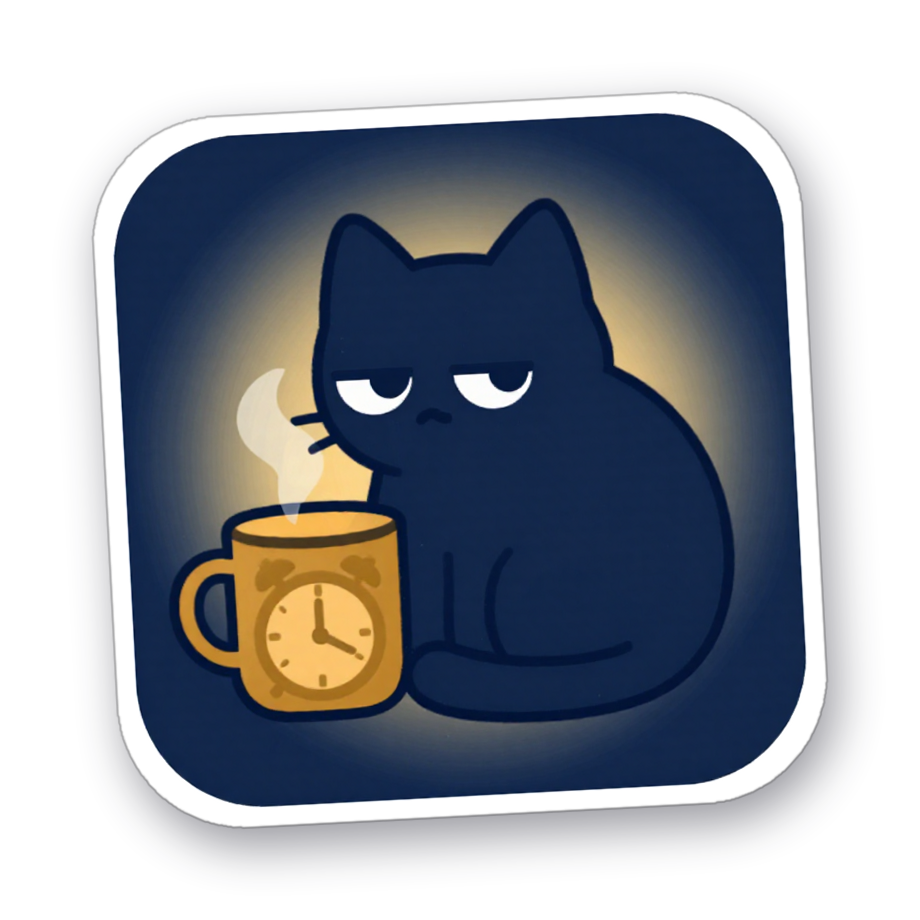
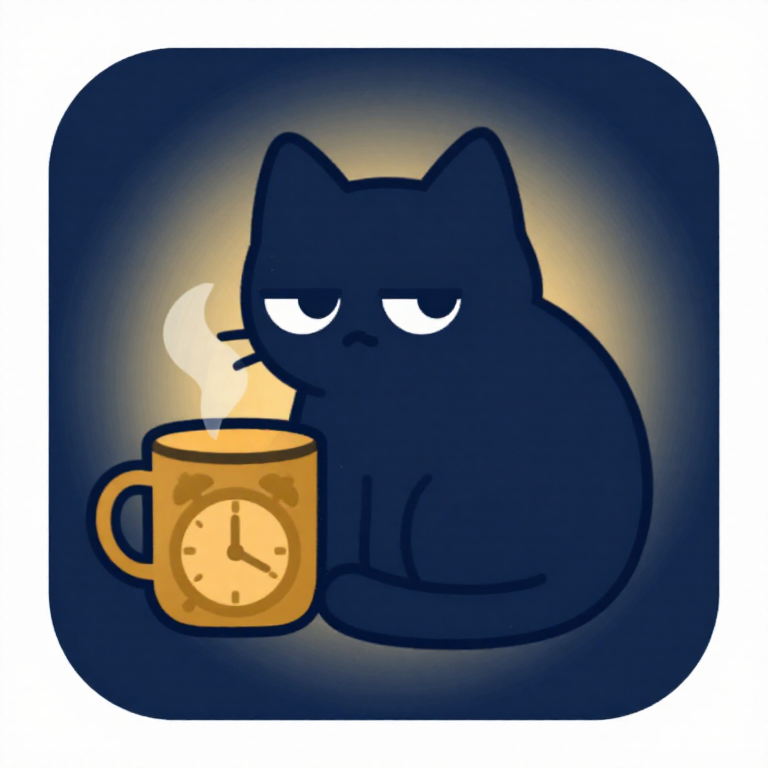
Generate the page from the brand repo, with a link preview card (#11)

diff --git a/docs/index.html b/docs/index.html
@@ -8,7 +8,12 @@
   <link rel="icon" href="icon.png">
   <meta property="og:title" content="cache-nudge">
   <meta property="og:description" content="A nudge before an idle Claude Code session's prompt cache goes cold.">
-  <meta property="og:image" content="https://pelayomendez.github.io/claude-cache-nudge/icon.png">
+  <meta property="og:url" content="https://pelayomendez.github.io/claude-cache-nudge/">
+  <meta property="og:image" content="https://pelayomendez.github.io/claude-cache-nudge/og.png">
+  <meta property="og:image:width" content="1200">
+  <meta property="og:image:height" content="627">
+  <meta name="twitter:card" content="summary_large_image">
+  <!-- Generated by pelayomendez/brand (scripts/build.mjs) from tools/cache-nudge.md: edit it there. -->
   <style>
     :root { --ink: #1E1E2A; --cream: #FFF4E0; --accent: #F2A541; --dim: #a9a6b8; }
     * { box-sizing: border-box; }
@@ -21,7 +26,7 @@
     h2 { color: var(--accent); font-size: 20px; margin: 44px 0 10px; }
     pre { background: #12121a; border: 1px solid #2c2c3c; border-radius: 10px; padding: 16px 18px; overflow-x: auto; font: 14px/1.5 ui-monospace, SFMono-Regular, Menlo, monospace; }
     code { font-family: ui-monospace, SFMono-Regular, Menlo, monospace; }
-    .amber { color: var(--accent); } .green { color: #4FB477; } .red { color: #E5484D; } .mute { color: var(--dim); }
+    .amber { color: #F2A541; } .green { color: #4FB477; } .red { color: #E5484D; } .teal { color: #2EC4B6; } .accent { color: var(--accent); } .mute { color: var(--dim); }
     table { border-collapse: collapse; width: 100%; }
     td { padding: 8px 10px; border-top: 1px solid #2c2c3c; vertical-align: top; }
     td:first-child { white-space: nowrap; font-weight: 600; }
